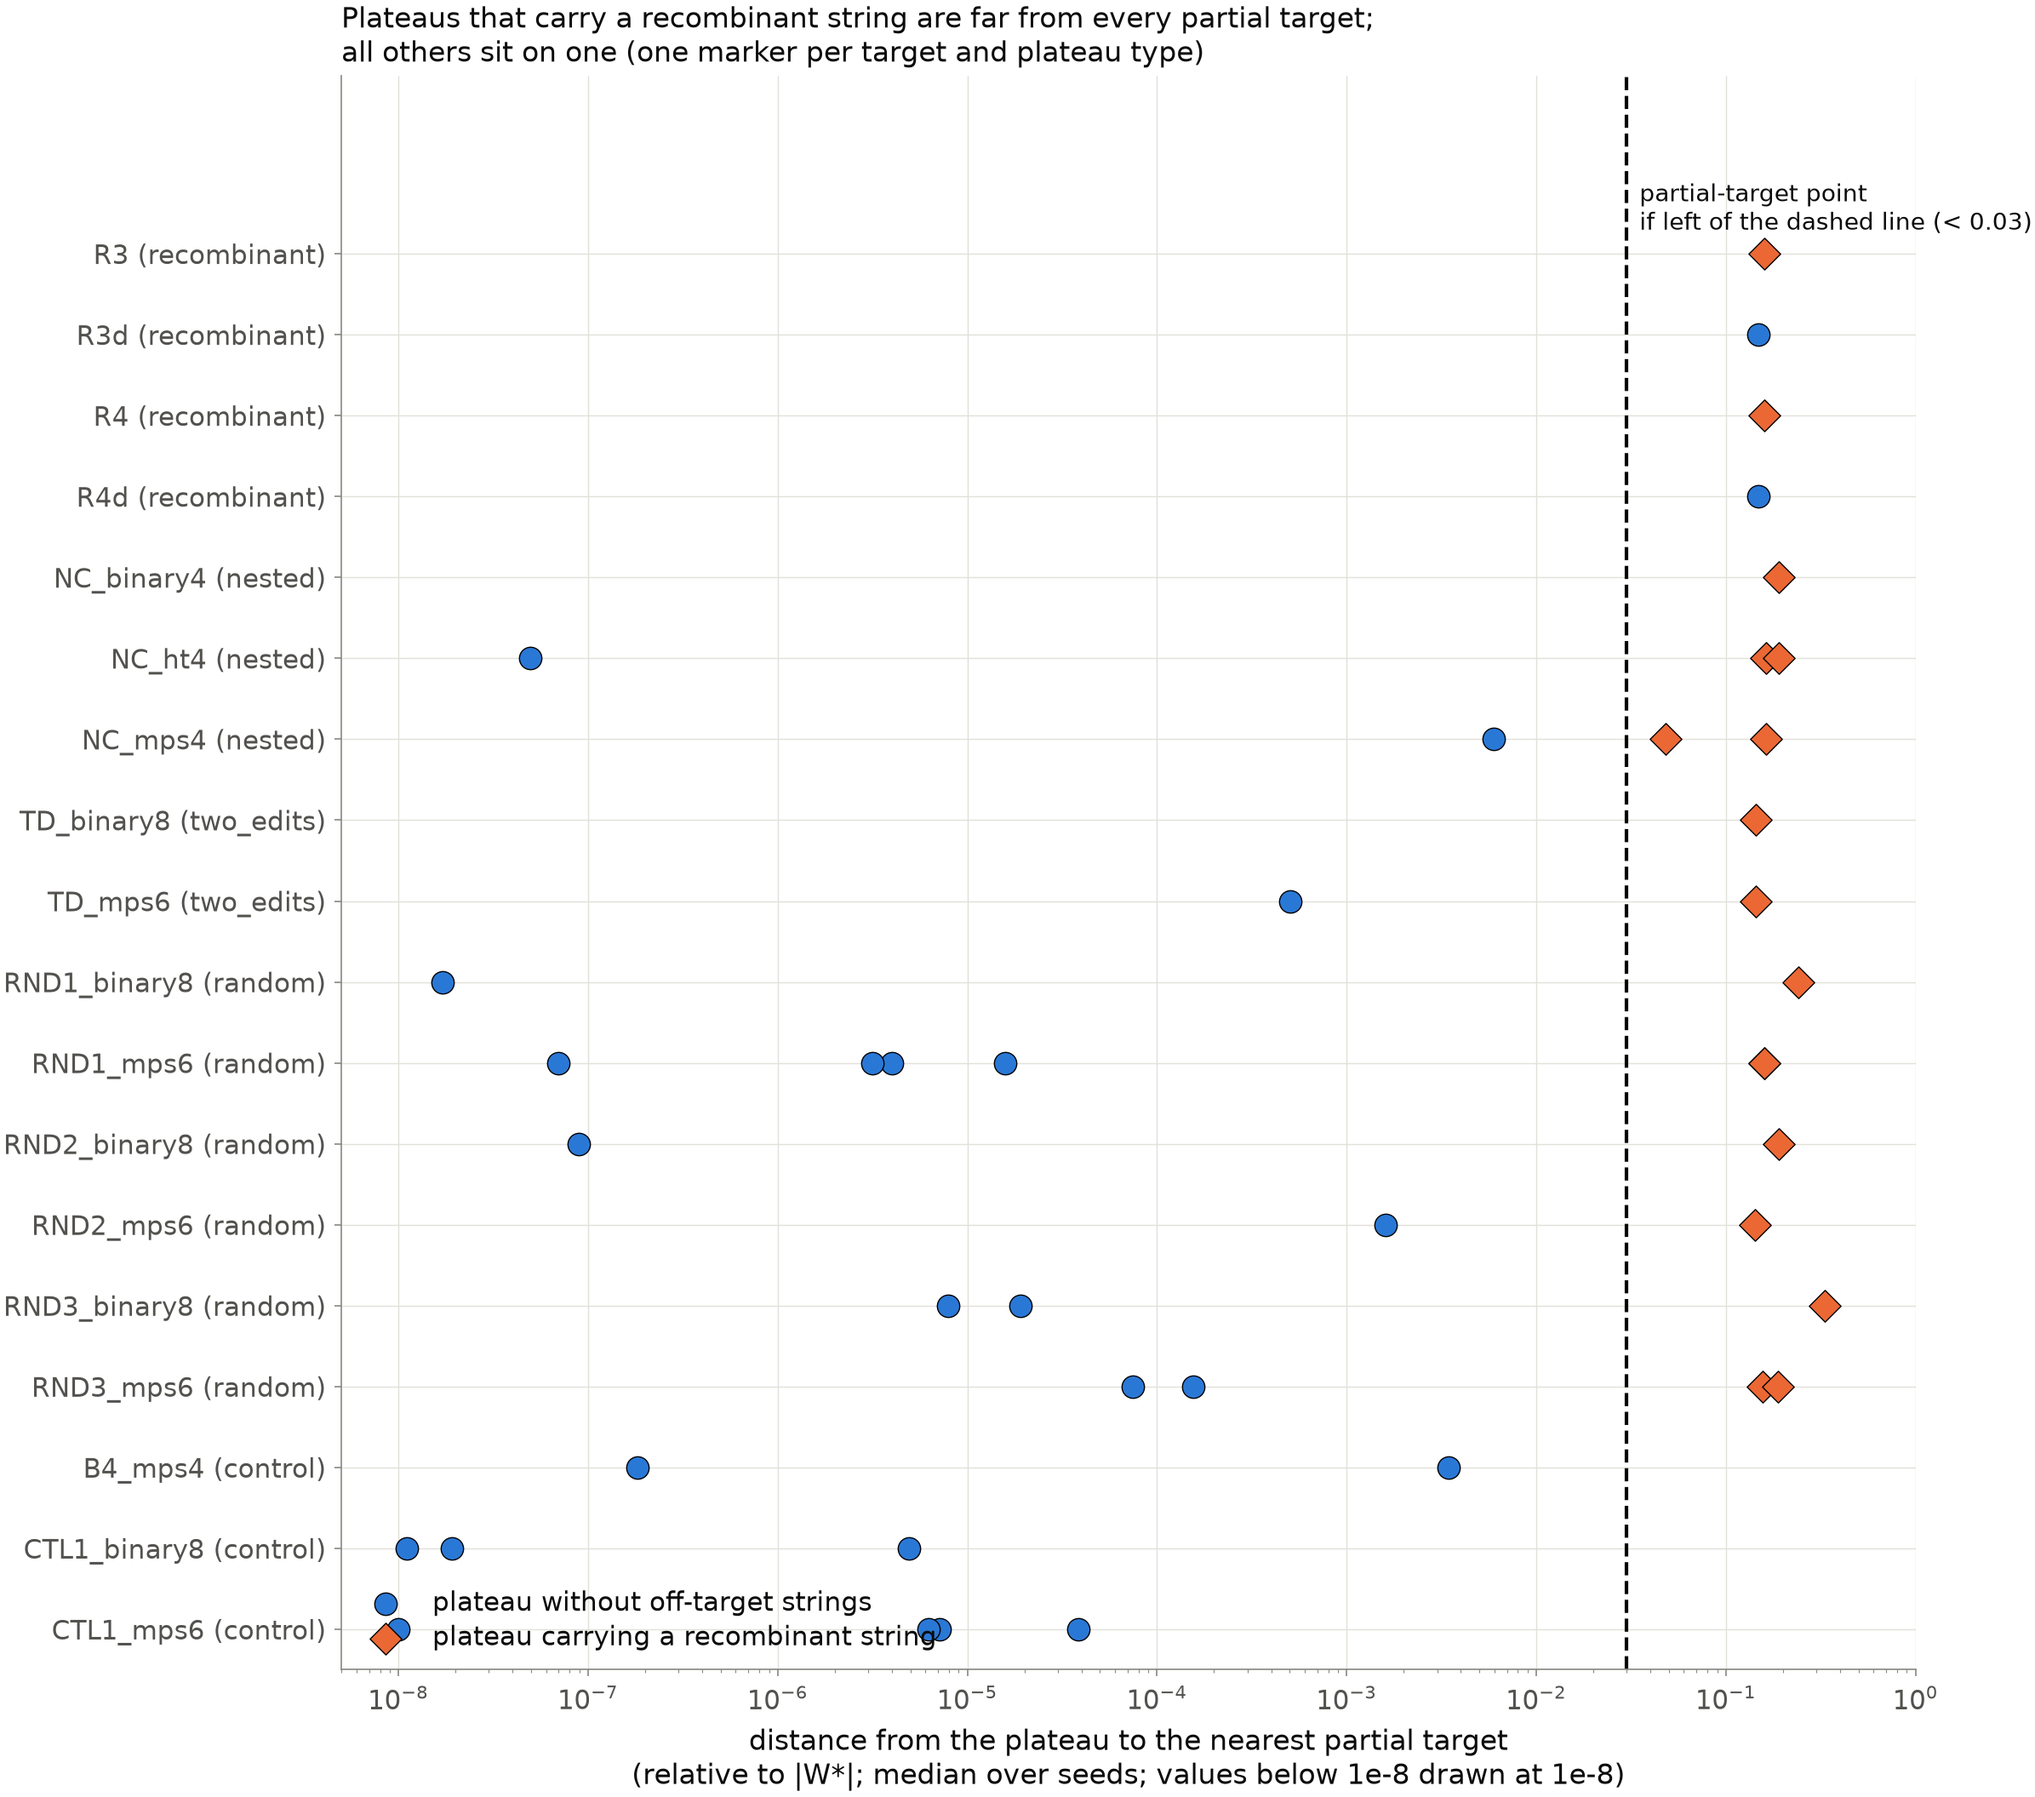
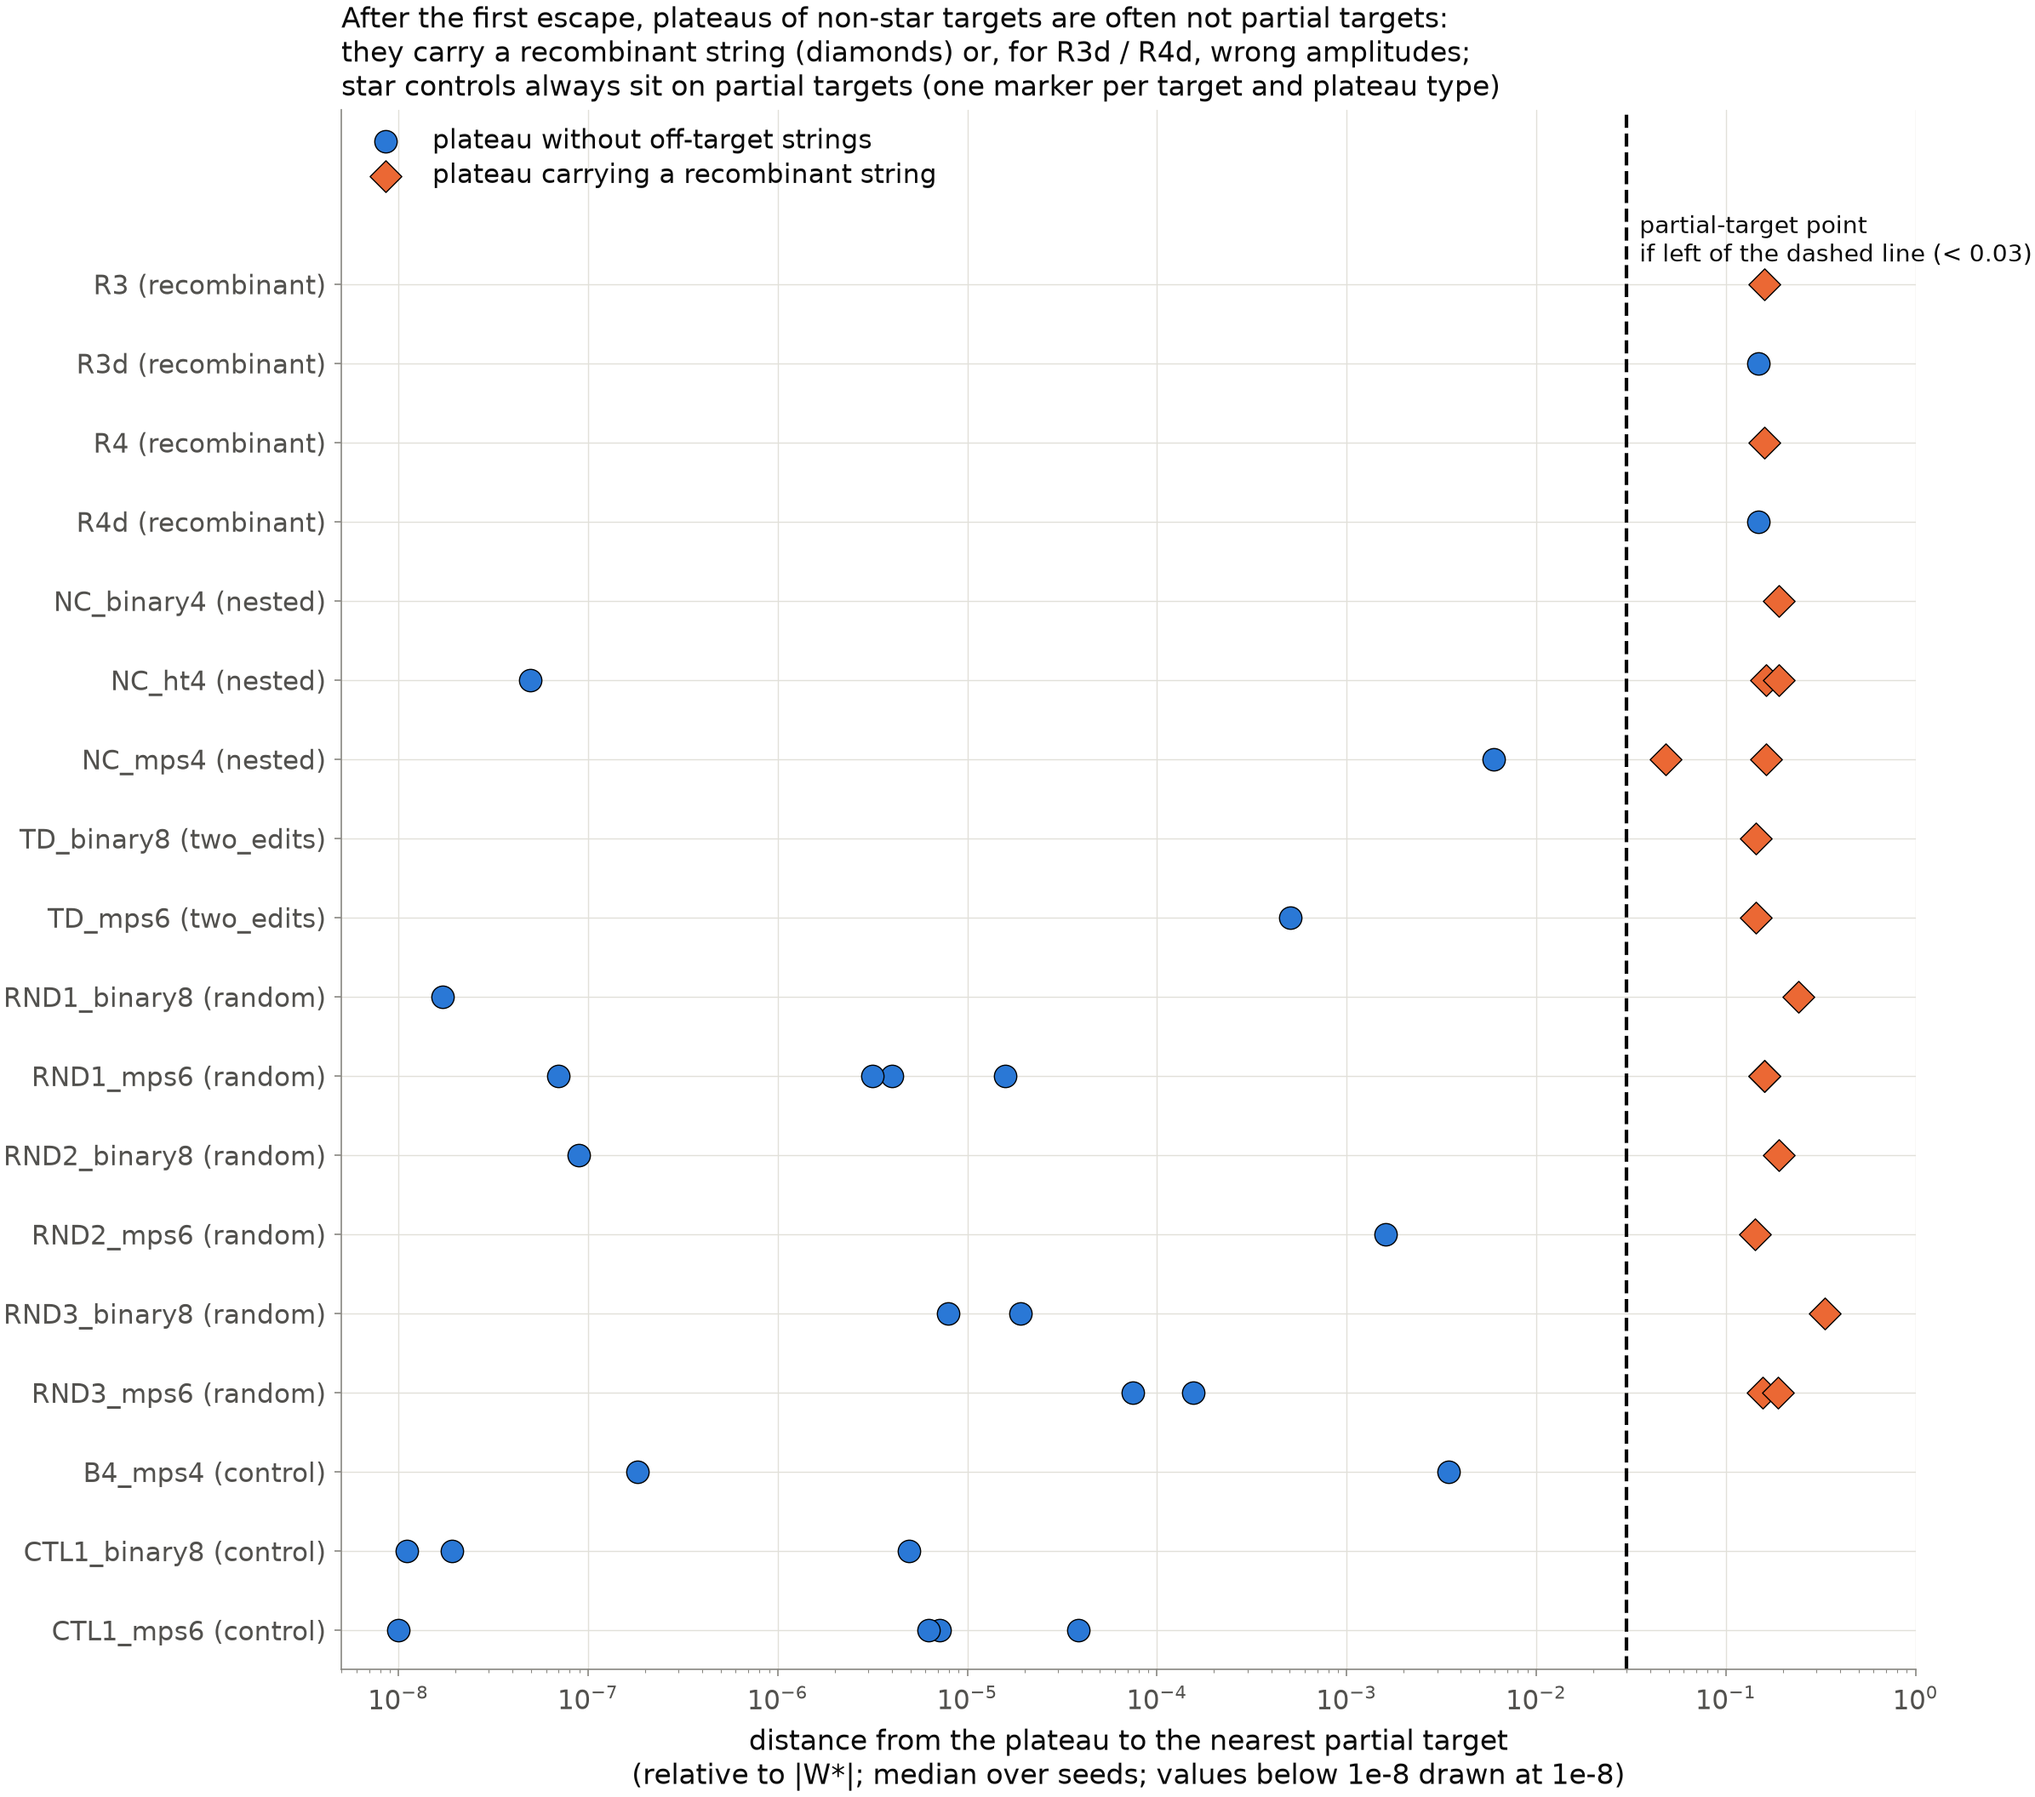
route-nonstar: figure 2 title and legend

diff --git a/experiments/route_nonstar/figures.py b/experiments/route_nonstar/figures.py
@@ -119,9 +119,11 @@ def plateau_identity(res: Path, out: Path):
                label="plateau without off-target strings")
     ax.scatter([], [], color=cols[1], edgecolor="black", lw=0.5, s=90, marker="D",
                label="plateau carrying a recombinant string")
-    ax.legend(loc="lower left", fontsize=BIG - 1)
-    ax.set_title("Plateaus that carry a recombinant string are far from every partial target;\n"
-                 "all others sit on one (one marker per target and plateau type)")
+    ax.legend(loc="upper left", fontsize=BIG - 1)
+    ax.set_title("After the first escape, plateaus of non-star targets are often not partial "
+                 "targets:\nthey carry a recombinant string (diamonds) or, for R3d / R4d, wrong "
+                 "amplitudes;\nstar controls always sit on partial targets "
+                 "(one marker per target and plateau type)")
     savefig(fig, out / "fig2_plateau_identity")
     plt.close(fig)
 
